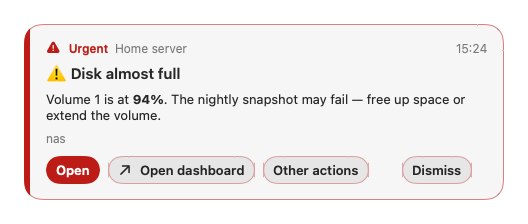
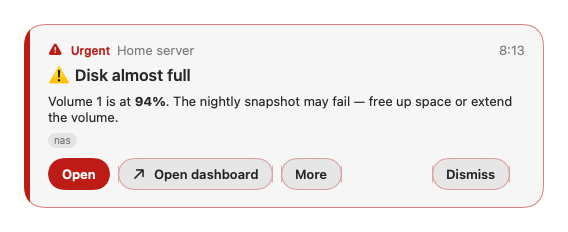
1.4.0 review fixes: safe migration write order, away summary, orphan rules
- Migration saves config.json before rules.json, so a failed rules write leaves
  the old rules skipping the new plans (same behaviour) instead of a retry that
  finds nothing to absorb.
- The "N messages while you were away" summary comes for any topic whose plan
  shows something, as in 1.3 (popup-only topics kept it there).
- Backups never overwrite an existing .pre-1.4.json.
- Removing a topic switches off a rule limited to that topic only.
- CHANGELOG/README wording, refreshed docs/screenshots.

Claude-Session: https://claude.ai/code/session_01148U6btiYHiK8aQketKwUs

diff --git a/Tests/NtfyBarCoreTests/DispatcherTests.swift b/Tests/NtfyBarCoreTests/DispatcherTests.swift
@@ -85,13 +85,13 @@ struct DispatcherTests {
         #expect(kinds(also.handle(m, config: config, now: now)) == ["notify", "popup", "copy"])
     }
 
-    @Test func catchUpSummaryOnlyWhenSomeBandNotifies() {
+    @Test func catchUpSummaryUnlessEveryBandShowsNothing() {
         var c = config
-        for k in c.topics[0].alerts.keys { c.topics[0].alerts[k]?.show = .popup }
+        for k in c.topics[0].alerts.keys { c.topics[0].alerts[k]?.show = .nothing }
         let d = Dispatcher()
         _ = d.handle(makeMessage(topicId: topicId, isCatchUp: true), config: c, now: now)
         #expect(d.flushCatchUp(config: c, now: now).isEmpty)
-        c.topics[0].alerts["1"]?.show = .notification
+        c.topics[0].alerts["1"]?.show = .popup
         _ = d.handle(makeMessage(topicId: topicId, isCatchUp: true), config: c, now: now)
         #expect(d.flushCatchUp(config: c, now: now) == [.summaryNotification(topicId: topicId, label: "Builds", count: 1)])
     }

diff --git a/Sources/NtfyBarCore/Config/ConfigStore.swift b/Sources/NtfyBarCore/Config/ConfigStore.swift
@@ -45,10 +45,11 @@ public struct ConfigStore: Sendable {
         directory.appendingPathComponent(url.deletingPathExtension().lastPathComponent + ".pre-1.4.json")
     }
 
-    /// Copies `url` to its `backupURL` (mode 600, overwritten), when it exists.
+    /// Copies `url` to its `backupURL` (mode 600), when it exists. An existing backup is kept: it holds the 1.3 file.
     public func backup(_ url: URL) throws {
         guard let data = try? Data(contentsOf: url) else { return }
         let to = backupURL(url)
+        guard !FileManager.default.fileExists(atPath: to.path) else { return }
         try data.write(to: to, options: .atomic)
         try FileManager.default.setAttributes([.posixPermissions: 0o600], ofItemAtPath: to.path)
     }

diff --git a/Sources/NtfyBarCore/Engine.swift b/Sources/NtfyBarCore/Engine.swift
@@ -86,9 +86,10 @@ public final class Engine {
             if !out.notes.isEmpty {
                 try store.backup(store.configURL)
                 try store.backup(store.rulesURL)
-                try store.saveRules(out.rules)
             }
+            // Config first: if the rules write fails, the old rules still skip the new plans, so behaviour is unchanged.
             try store.saveConfig(out.config)
+            if !out.notes.isEmpty { try store.saveRules(out.rules) }
         } catch {
             config.schemaVersion = 1
             Log.config.error("1.4 migration not saved, retried next launch: \(error.localizedDescription, privacy: .public)")

diff --git a/Sources/NtfyBarApp/TopicsTab.swift b/Sources/NtfyBarApp/TopicsTab.swift
@@ -50,7 +50,11 @@ struct TopicsTab: View {
         try? engine.update { $0.topics.removeAll { $0.id == id } }
         engine.clearHistory(topicId: id)
         try? engine.updateRules { rules in
-            for i in rules.indices { rules[i].topicIds.removeAll { $0 == id } }
+            // A rule left with no topics would apply to every topic: switch it off instead.
+            for i in rules.indices where rules[i].topicIds.contains(id) {
+                rules[i].topicIds.removeAll { $0 == id }
+                if rules[i].topicIds.isEmpty { rules[i].enabled = false }
+            }
         }
         selection = engine.config.topics.first?.id
     }

diff --git a/Sources/NtfyBarCore/Dispatch/Dispatcher.swift b/Sources/NtfyBarCore/Dispatch/Dispatcher.swift
@@ -76,7 +76,7 @@ public final class Dispatcher {
         defer { catchUpCounts.removeAll() }
         guard !config.isPaused(at: now) else { return [] }
         return catchUpCounts.sorted { $0.key.uuidString < $1.key.uuidString }.compactMap { topicId, count in
-            guard let topic = config.topic(topicId), topic.notifiesSomewhere else { return nil }
+            guard let topic = config.topic(topicId), topic.notifiesSomewhere || topic.popsUpSomewhere else { return nil }
             return .summaryNotification(topicId: topicId, label: topic.displayLabel, count: count)
         }
     }

diff --git a/CHANGELOG.md b/CHANGELOG.md
@@ -17,9 +17,14 @@ uses [Semantic Versioning](https://semver.org/).
 ### Changed
 - `config.json` topic shape: `alerts` (per priority) and `popup` as a style (`level`, `position`, `showCopy`, `showOpen`, optional `card`). Topics with the 1.3 keys are still read and are rewritten in the new shape on the next save.
 - The first launch of 1.4 folds rules that only set a priority band's popup, sound or notification into the topic plans, once. The previous files are kept as `config.pre-1.4.json` and `rules.pre-1.4.json` and one notification says how many rules moved. Every other rule is kept as it was. To go back to 1.3.1, restore those two files.
+- A rule's **Show popup** without its own timeout uses the priority row's **Close after**; a rule popup with its own timeout no longer stays for urgent messages (1.3 applied the topic's "urgent stays" to it).
+- The "N messages while you were away" summary now comes for every topic whose plan shows anything (notification, popup or card), not only for topics with notifications on; a topic set to **Nothing** for every priority stays quiet.
 - Quiet hours are named **Quiet hours for sending** and say that incoming messages are not affected.
 - The rule action `builtin.ignore` is shown as **Skip the topic's plan** (same id).
 - Settings and the popup follow the house style of the other Mac apps: sidebars with status dots and a caption (sign-in kind for servers), Save and Remove pinned below every editor, rule conditions and actions as cards (Match ALL / ANY, ⓘ for each step's description, topics as a checkbox grid), plugin source and "Unverified" pills, a centred About tab with the version, **Pause notifications** as one menu, quiet-hours times that save as soon as both are valid. The popup is 520 pt wide with larger title and buttons, tags as pills and a **More** menu; History has alternating rows.
+
+### Fixed
+- Removing a topic switches off a rule that was limited to that topic only, instead of turning it into an "Any topic" rule.
 
 ### Removed
 - `notify`, `soundOverride` and `popup.enabled` / `timeoutSec` / `stickyForUrgent` / `soundByPriority` are no longer written to new config files (they are still read).

diff --git a/README.md b/README.md
@@ -29,7 +29,7 @@ a copy to the clipboard, a shell command, or rules and plugins.
 
 - **Topics on ntfy.sh or your own server** — several servers, with username/password or access-token sign-in. Live streaming with automatic reconnect; messages sent while your Mac was asleep or offline are fetched and summed up in one notification instead of a flood.
 - **Per topic, one plan by priority:** nothing, a macOS notification, NtfyBar's popup or a plugin card, how long it stays, which sound — plus copy to clipboard, download attachments (and copy the file, e.g. a shared photo; popup buttons Copy file · Download · Open folder), run your own shell command.
-- **Popups that don't get missed** — float above your windows (optionally above full-screen apps) without stealing focus, stack neatly, show priority as colour *and* icon *and* word, render markdown, and carry the message's own action buttons (open a link, send an HTTP request). Urgent ones stay until you dismiss them.
+- **Popups that don't get missed** — float above your windows (optionally above full-screen apps) without stealing focus, stack neatly, show priority as colour *and* icon *and* word, render markdown, and carry the message's own action buttons (open a link, send an HTTP request). Urgent ones can stay until you dismiss them (Close after: Stays).
 - **Rules** — exceptions to a plan: when a message matches (priority, text, regex, tags, JSON, …) also or instead do something (popup, copy, open a URL, run a command or Shortcut, publish a reply, play a sound). Edit them in Settings or in `rules.json`.
 - **Plugins** — JavaScript conditions, actions and popups in a sandbox with permissions you approve one by one ([marketplace](https://github.com/roypadina/NtfyBar-Plugins)).
 - **History** — every message, searchable, per topic, with read/unread.
